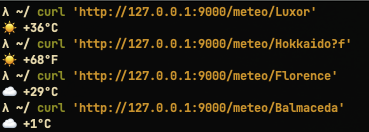
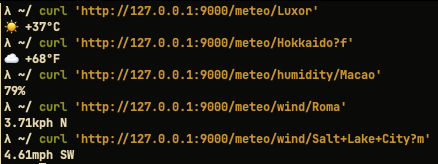
Added humidity, wind speed and wind direction routes

Changed region(s): [[0.0, 0.0, 1.0, 1.0]]

diff --git a/www/routes.py b/www/routes.py
@@ -1,7 +1,7 @@
 from flask import Flask
 from flask import request
 from gevent.pywsgi import WSGIServer
-from typing import Tuple, Dict
+from typing import Tuple, Dict, cast
 from enum import Enum
 from cache import database
 import requests
@@ -24,7 +24,9 @@ class WebServer:
         # Initialize cache
         self.cache = database.Database(ttl=self.cache_ttl)
         # Register API route
-        self.app.add_url_rule("/meteo/<city>", view_func=self.meteo_route)
+        self.app.add_url_rule("/meteo/<city>", view_func=self.weather_route)
+        self.app.add_url_rule("/meteo/humidity/<city>", view_func=self.humidity_route)
+        self.app.add_url_rule("/meteo/wind/<city>", view_func=self.wind_route)
 
     def __get_city_coordinates(self, city: str) -> Tuple[float, float] | Error:
         ''' Given the city name, return a tuple containing 
@@ -41,8 +43,8 @@ class WebServer:
         ''' Given a weather condition return an emoji '''
         conditions_map = {
             "Thunderstorm": "⛈",
-            "Drizzle": "🌦",
-            "Rain": "🌧",
+            "Drizzle": "🌦 ",
+            "Rain": "🌧 ",
             "Snow": "☃",
             "Mist": "💭",
             "Smoke": "💭",
@@ -52,7 +54,7 @@ class WebServer:
             "Sand": "💭",
             "Ash": "💭",
             "Squall": "💭",
-            "Tornado": "🌪",
+            "Tornado": "🌪 ",
             "Clear": "☀",
             "Clouds": "☁"
         }
@@ -77,7 +79,125 @@ class WebServer:
         
         return { "emoji": condition_emoji, "temperature": (temperature_celsius, temperature_fahrenheit) }
 
-    def meteo_route(self, city) -> None:
+    def __get_city_humidity(self, coordinates: Tuple[float, float]) -> Dict[str, str]:
+        ''' Given the coordinates of a city, returns its humidity level(in percentage) '''
+        url = f"https://api.openweathermap.org/data/2.5/weather?units=metric"\
+              f"&lat={coordinates[0]}&lon={coordinates[1]}&appid={self.token}"
+        res = requests.get(url).json()
+
+        # Extract the humidity level
+        humidity = res["main"]["humidity"]
+
+        return { "value": humidity }
+
+    def __get_city_wind(self, coordinates: Tuple[float, float]) -> Dict[str, str]:
+        ''' Given the coordinates of a city, returns its wind speed and its direction '''
+        url = f"https://api.openweathermap.org/data/2.5/weather?units=metric"\
+              f"&lat={coordinates[0]}&lon={coordinates[1]}&appid={self.token}"
+        res = requests.get(url).json()
+
+        # Extract wind fields
+        wind_speed = res["wind"]["speed"]
+        wind_deg = int(res["wind"]["deg"])
+
+        # Map wind degree to cardinal direction
+        # Each cardinal direction represent a segment of 22.5 degrees
+        cardinal_directions = [
+            "N",   # 0/360 DEG
+            "NNE", # 22.5 DEG
+            "NE",  # 45 DEG
+            "ENE", # 67.5 DEG
+            "E",   # 90 DEG
+            "ESE", # 112.5 DEG
+            "SE",  # 135 DEG
+            "SSE", # 157.5 DEG
+            "S",   # 180 DEG
+            "SSW", # 202.5 DEG
+            "SW",  # 225 DEG
+            "WSW", # 247.5 DEG
+            "W",   # 270 DEG
+            "WNW", # 292.5 DEG
+            "NW",  # 315 DEG
+            "NNW", # 337.5 DEG
+        ]
+        
+        # We compute "idx ≡ round(wind_deg / 22.5) (mod 16)" 
+        # to ensure that values above 360 degrees or below 0 degrees
+        # "stay" bounded to the map
+        idx = round(wind_deg / 22.5) % 16
+
+        # Get wind direction
+        wind_direction = cardinal_directions[idx]
+
+
+        return { "speed": wind_speed, "direction": wind_direction }   
+
+
+    def humidity_route(self, city):
+        # Check if city already exists on the cache
+        cached_value = self.cache.get_key(f"{city}_humidity")
+        if cached_value is not None:
+            humidity = cached_value
+        else:
+            # Retrieve coordinates from city name
+            coordinates = self.__get_city_coordinates(city)
+
+            # Check if city exists
+            if isinstance(coordinates, Error):
+                return coordinates, 400
+
+            # Retrieve city humidity
+            humidity = self.__get_city_humidity(coordinates)
+            # Save humidity into the cache
+            self.cache.add_key(f"{city}_humidity", cast(Dict[str, str | Tuple[str, str]], humidity))
+
+        # Build result string
+        result = f"{humidity['value']}%\n"
+
+        # Return the result
+        return result, 200
+
+    def wind_route(self, city):
+        # Retrieve unit of measurement. By default, it will be set to "metric"
+        if request.args.get("m") is not None:
+            units = Units.IMPERIAL
+        else:
+            units = Units.METRIC
+
+        # Check if city already exists on the cache
+        cached_value = self.cache.get_key(f"{city}_wind")
+        if cached_value is not None:
+            wind = cached_value
+        else:
+            # Retrieve coordinates from city name
+            coordinates = self.__get_city_coordinates(city)
+
+            # Check if city exists
+            if isinstance(coordinates, Error):
+                return coordinates, 400
+
+            # Retrieve city wind
+            wind = self.__get_city_wind(coordinates)
+            # Save wind into the cache
+            self.cache.add_key(f"{city}_wind", cast(Dict[str, str | Tuple[str, str]], wind))
+
+        # Convert wind speed(by default represented in m/s) according to the unit of measurement 
+        # 1 m/s = 2.23694 mph
+        # 1 m/s = 3.6 kph
+        wind_speed = str(wind["speed"])
+        wind_speed = float(wind_speed) * 2.23694 if units == Units.IMPERIAL else float(wind_speed) * 3.6
+
+        # Extract wind direction
+        wind_direction = str(wind["direction"])
+
+        # Build result string
+        result = f"{round(wind_speed, 2)}{'mph' if units == Units.IMPERIAL else 'kph'} {wind_direction}\n"
+
+        # Return the result
+        return result, 200
+
+
+    def weather_route(self, city):
         # Retrieve unit of measurement. By default it will be set to "metric"
         if request.args.get("f") is not None:
             units = Units.IMPERIAL
@@ -85,7 +205,7 @@ class WebServer:
             units = Units.METRIC
 
         # Check if city already exists on the cache
-        cached_value = self.cache.get_key(city)
+        cached_value = self.cache.get_key(f"{city}_weather")
         if cached_value is not None:
             weather = cached_value
         else:
@@ -99,7 +219,7 @@ class WebServer:
             # Retrieve city weather
             weather = self.__get_city_weather(coordinates)
             # Save weather into the cache
-            self.cache.add_key(city, weather)
+            self.cache.add_key(f"{city}_weather", weather)
 
         # Extract weather condition icon
         emoji = str(weather["emoji"])

diff --git a/main.py b/main.py
@@ -15,7 +15,7 @@ def main():
 
     # Check whether API key is empty
     if not token:
-        print("'METEO_TOKEN cannot be empty")
+        print("'METEO_TOKEN' cannot be empty")
         return 1
 
     # Start the webserver

diff --git a/README.md b/README.md
@@ -24,9 +24,32 @@ $> curl 'http://127.0.0.1:9000/meteo/Rome?f'
 ☀  +95°F
 ```
 
-If your city consists on two or more words, you can format the URL as follows:
+If your city consists of two or more words, you can format the URL as follows:
 ```sh
 $> curl 'http://127.0.0.1:9000/meteo/Buenos+Aires'
+```
+
+**Meteo** can also be used to retrieve the percentage of humidity, the wind speed and the wind direction. Below
+there is an example:
+
+```sh
+# Retrieve humidity of Amsterdam
+$> curl 'http://127.0.0.1:9000/meteo/humidity/amsterdam'
+75%
+```
+
+```sh
+# Retrieve wind speed of Macao
+$> curl 'http://127.0.0.1:9000/meteo/wind/macao
+22.21kph E
+```
+
+To request the wind speed in MPH(Mile Per Hours) instead of KPM(Kilometers Per Hours), append
+the `?m` parameter to the URL. That is:
+
+```sh
+$> curl 'http://127.0.0.1:9000/meteo/wind/macao?m'
+13.8mph E
 ```
 
 ## Cache
